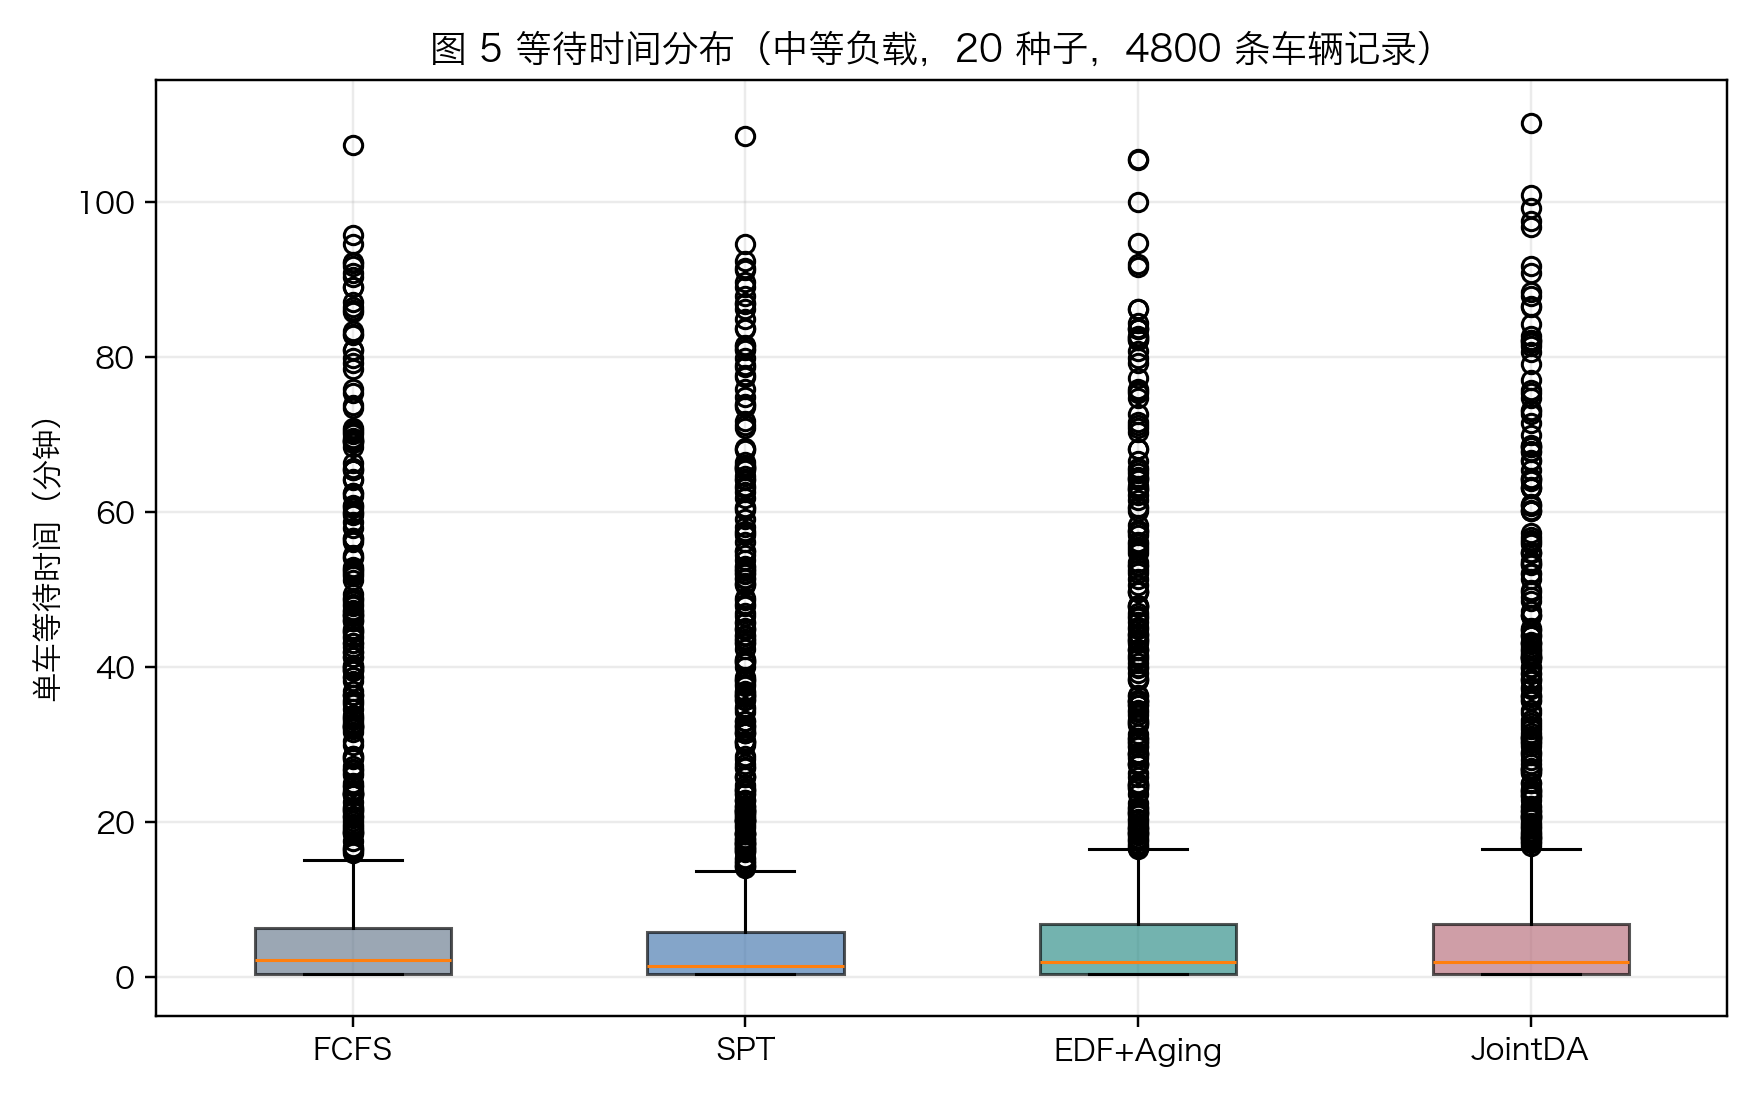
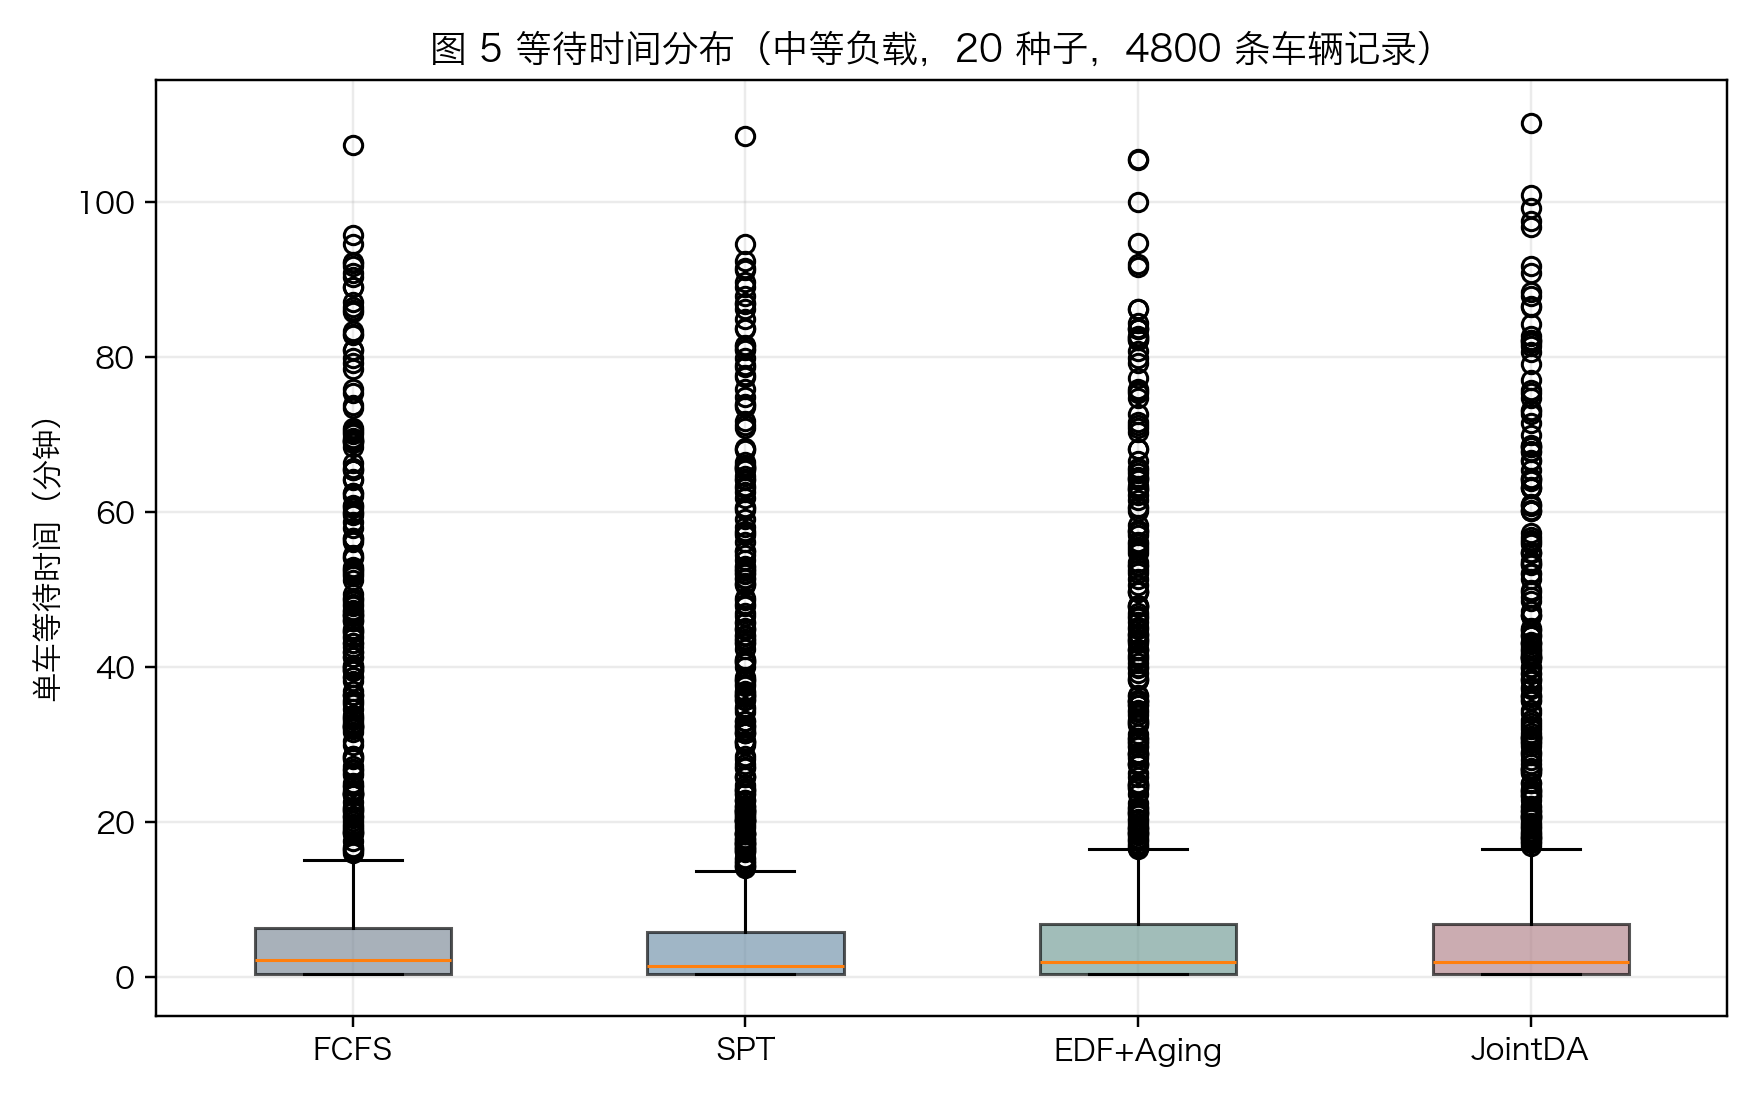
style(repro): soften figure palette and align UML diagrams

Changed region(s): [[0.3438, 0.8345, 0.5, 0.8964], [0.5938, 0.8345, 0.7188, 0.8964]]

diff --git a/make_figures.py b/make_figures.py
@@ -14,8 +14,7 @@ import numpy as np
 import pandas as pd
 from scipy import stats
 
-REPO_ROOT = Path(__file__).resolve().parent
-sys.path.insert(0, str(REPO_ROOT / "vendor" / "dockflow"))
+REPO_ROOT = Path(__file__).resolve().parents[2]
 sys.path.insert(0, str(REPO_ROOT))
 
 HERE = Path(__file__).resolve().parent
@@ -40,9 +39,9 @@ LABELS = {
     "aqedf": "AQEDF",
 }
 COLORS = {
-    "fcfs": "#65788d", "spt": "#4275ad", "edf": "#8769ad", "edf_aging": "#288b85",
-    "dependency_aware": "#be8254", "joint_da": "#b66b79", "rh_da": "#5b8b69",
-    "aqedf": "#c0392b",
+    "fcfs": "#7A8796", "spt": "#6E8FA8", "edf": "#8E82A6", "edf_aging": "#6F9A94",
+    "dependency_aware": "#B49A80", "joint_da": "#B08088", "rh_da": "#7E9A85",
+    "aqedf": "#B06A60",
 }
 LEVELS = ["low", "medium", "high"]
 LEVEL_LABELS = {
@@ -184,7 +183,7 @@ def fig08_ablation() -> Path:
             means.append(mean)
             errs.append(half)
         bars = ax.bar(range(len(variants)), means, yerr=errs, capsize=3,
-                      color=["#4b5b6b"] + ["#be8254"] * (len(variants) - 1),
+                      color=["#6F7C89"] + ["#B49A80"] * (len(variants) - 1),
                       edgecolor="white")
         ax.set_xticks(range(len(variants)))
         ax.set_xticklabels(variants, rotation=30, fontsize=8)
@@ -294,7 +293,7 @@ def fig12_gantt() -> Path:
             if start is None:
                 continue
             y = y_base[event["dock_id"]]
-            color = "#288b85" if direction[truck_id] == "IN" else "#be8254"
+            color = "#6F9A94" if direction[truck_id] == "IN" else "#B49A80"
             service_start = started.get(truck_id, start)
             service_end = finished.get(truck_id, event["time"])
             ax.barh(y, service_start - start, left=start, height=0.55, color=color, alpha=0.35)
@@ -308,7 +307,7 @@ def fig12_gantt() -> Path:
     ax.set_yticklabels(docks)
     ax.set_xlabel("仿真时间（分钟）")
     ax.set_ylabel("月台")
-    ax.set_title("图 12 真实调度甘特图（JointDA，小规模实例）：浅色为驶入/驶出，深色为装卸")
+    ax.set_title("示例调度甘特图（JointDA，小规模合成实例）：浅色为驶入/驶出，深色为装卸")
     return save(fig, "fig12_gantt.png")
 
 
@@ -320,35 +319,44 @@ def figA1_sequence() -> Path:
     actors = ["仿真引擎", "调度算法", "事件日志", "存储"]
     xs = [1.3, 4.3, 7.0, 9.0]
     for x, name in zip(xs, actors):
-        ax.add_patch(plt.Rectangle((x - 0.85, 9.0), 1.7, 0.6, facecolor="#eef2f7",
-                                   edgecolor="#5b6b7b"))
-        ax.text(x, 9.3, name, ha="center", va="center", fontsize=9)
-        ax.plot([x, x], [0.4, 9.0], linestyle="--", color="#9aa7b4", linewidth=0.9)
+        ax.add_patch(plt.Rectangle((x - 0.85, 9.0), 1.7, 0.6, facecolor="#EEF1F4",
+                                   edgecolor="#6F7C89"))
+        ax.text(x, 9.3, name, ha="center", va="center", fontsize=9, color="#5F6B78")
+        ax.plot([x, x], [0.4, 9.0], linestyle="--", color="#A5AFB9", linewidth=0.9)
+    activation = {0: (4.0, 8.7), 1: (6.8, 8.5), 2: (3.3, 4.2), 3: (2.6, 3.5)}
+    for idx, (bottom, top) in activation.items():
+        x = xs[idx]
+        ax.add_patch(plt.Rectangle((x - 0.07, bottom), 0.14, top - bottom,
+                                   facecolor="#DDE3E9", edgecolor="#A5AFB9",
+                                   linewidth=0.5, zorder=1))
     messages = [
-        (0, 1, "select_next(就绪快照, 月台, 当前时刻, 配置)", 8.4),
-        (1, 1, "评分 / 联合匹配 / 前瞻推演（只读）", 7.6),
-        (1, 0, "返回 truck_id 或 None", 6.9),
-        (0, 0, "DOCK_ASSIGNED; READY → APPROACHING", 6.2),
-        (0, 0, "SERVICE_FINISHED：入站卸完解锁出站", 5.5),
-        (0, 0, "DOCK_RELEASED：月台释放", 4.8),
-        (0, 2, "追加事件（seq, time, type, data）", 4.1),
-        (2, 3, "持久化运行与事件", 3.4),
-        (3, 0, "分页读取并回放", 2.7),
+        (0, 1, "select_next(就绪快照, 月台, 当前时刻, 配置)", 8.4, "sync"),
+        (1, 1, "评分 / 联合匹配 / 前瞻推演（只读）", 7.6, "self"),
+        (1, 0, "返回 truck_id 或 None", 6.9, "return"),
+        (0, 0, "DOCK_ASSIGNED; READY → APPROACHING", 6.2, "self"),
+        (0, 0, "SERVICE_FINISHED：入站卸完解锁出站", 5.5, "self"),
+        (0, 0, "DOCK_RELEASED：月台释放", 4.8, "self"),
+        (0, 2, "追加事件（seq, time, type, data）", 4.1, "sync"),
+        (2, 3, "持久化运行与事件", 3.4, "sync"),
+        (3, 0, "分页读取并回放", 2.7, "return"),
     ]
-    for src, dst, label, y in messages:
+    for src, dst, label, y, kind in messages:
         if src == dst:
             x = xs[src]
             ax.add_patch(plt.Rectangle((x - 0.09, y - 0.2), 0.18, 0.4,
-                                       facecolor="white", edgecolor="#3c5a78"))
-            ax.text(x + 0.2, y, label, ha="left", va="center", fontsize=8)
+                                       facecolor="#F4F6F8", edgecolor="#6F7C89", zorder=2))
+            ax.text(x + 0.2, y, label, ha="left", va="center", fontsize=8, color="#5F6B78")
         else:
             direction = 1 if dst > src else -1
+            dashed = kind == "return"
             ax.annotate("", xy=(xs[dst] - 0.05 * direction, y),
                         xytext=(xs[src] + 0.05 * direction, y),
-                        arrowprops=dict(arrowstyle="-|>", color="#3c5a78", lw=1.3))
+                        arrowprops=dict(arrowstyle=("->" if dashed else "-|>"),
+                                        color=("#7A8794" if dashed else "#5E6F80"),
+                                        lw=1.2, linestyle=("--" if dashed else "-")))
             ax.text((xs[src] + xs[dst]) / 2, y + 0.12, label, ha="center",
-                    va="bottom", fontsize=8)
-    ax.set_title("图 A1 调度调用时序（非抢占、只读快照）")
+                    va="bottom", fontsize=8, color="#5F6B78")
+    ax.set_title("调度调用时序（非抢占、只读快照）")
     return save(fig, "figA1_sequence.png")
 
 

diff --git a/make_research_figures.py b/make_research_figures.py
@@ -28,9 +28,9 @@ plt.rcParams.update({
 ORDER = ["edf", "qedf", "spt", "dependency_aware", "joint_da", "rh_da"]
 LABELS = {"edf": "EDF", "qedf": "QEDF（无门控）", "aqedf": "AQEDF（本文）", "spt": "SPT",
           "dependency_aware": "DA", "joint_da": "JointDA", "rh_da": "RH-DA"}
-COLORS = {"edf": "#8769ad", "qedf": "#c97c5a", "aqedf": "#c0392b",
-          "spt": "#4275ad", "dependency_aware": "#be8254", "joint_da": "#b66b79",
-          "rh_da": "#5b8b69"}
+COLORS = {"edf": "#8E82A6", "qedf": "#B49A80", "aqedf": "#B06A60",
+          "spt": "#6E8FA8", "dependency_aware": "#B49A80", "joint_da": "#B08088",
+          "rh_da": "#7E9A85"}
 
 
 def load(name: str) -> list[dict]:
@@ -67,7 +67,7 @@ def fig13() -> Path:
             errs.append(half)
         bars = ax.bar(range(len(ORDER)), means, yerr=errs, capsize=3,
                       color=[COLORS[a] for a in ORDER], edgecolor="white", linewidth=0.6)
-        bars[ORDER.index("qedf")].set_edgecolor("#c0392b")
+        bars[ORDER.index("qedf")].set_edgecolor("#B06A60")
         bars[ORDER.index("qedf")].set_linewidth(2.0)
         ax.set_xticks(range(len(ORDER)))
         ax.set_xticklabels([LABELS[a] for a in ORDER], rotation=20, fontsize=8.5)
@@ -76,7 +76,7 @@ def fig13() -> Path:
         for bar, value in zip(bars, means):
             ax.text(bar.get_x() + bar.get_width() / 2, bar.get_height(),
                     f"{value:.3f}", ha="center", va="bottom", fontsize=7)
-    fig.suptitle("图 13 队列感知 EDF（QEDF）的适用区间：中负载无差异，高排队压力下逾期率最低",
+    fig.suptitle("无门控 QEDF：中等负载过度修正，高排队压力下有效",
                  fontsize=12)
     fig.tight_layout()
     path = FIG / "fig13_qedf.png"
@@ -104,7 +104,7 @@ def fig14() -> Path:
         ax.fill_between(xs, lows, highs, color=COLORS[algorithm], alpha=0.12)
     ax.set_xlabel("依赖比例")
     ax.set_ylabel("出站逾期率")
-    ax.set_title("图 16 固定规模（30/30，5 月台）下 QEDF 并无收益：\n"
+    ax.set_title("固定规模（30/30，5 月台）下 QEDF 并无收益：\n"
                  "修正需要足够的排队压力，而非单纯依赖比例")
     ax.legend(fontsize=9)
     fig.tight_layout()

diff --git a/make_validation_figure.py b/make_validation_figure.py
@@ -14,7 +14,7 @@ rows=list(csv.DictReader(open(DATA/"validation_selection.csv",encoding="utf-8"))
 S=json.load(open(DATA/"validation_summary.json",encoding="utf-8"))
 fig,axes=plt.subplots(1,2,figsize=(13,4.8))
 ax=axes[0]
-for metric,color,label in (("select_medium_miss","#8769ad","中负载"),("select_high_miss","#c0392b","高负载")):
+for metric,color,label in (("select_medium_miss","#8E82A6","中负载"),("select_high_miss","#B06A60","高负载")):
     xs=[];ys=[]
     for r in rows:
         if float(r["lambda"])==1.0:
@@ -26,10 +26,10 @@ ax=axes[1]
 labels={"medium":"中负载","high":"高负载","n120":"120 辆","n160":"160 辆"}
 names=[labels[k] for k in ("medium","high","n120","n160")]
 vals=[S["by_scenario"][k]["ratio"]*100 for k in ("medium","high","n120","n160")]
-bars=ax.bar(names,vals,color="#5b8b69")
+bars=ax.bar(names,vals,color="#7E9A85")
 ax.set_ylim(0,110); ax.set_ylabel("不劣实例比例 (%)")
 ax.set_title("(b) 独立确认集：逐实例不劣比例",fontsize=10)
 for b,v in zip(bars,vals): ax.text(b.get_x()+b.get_width()/2,v+2,f"{v:.0f}%",ha="center",fontsize=9)
-fig.suptitle("图 15 独立验证：参数在选择集上确定，效果在独立种子集上报告",fontsize=12)
+fig.suptitle("独立验证：参数在选择集上确定，效果在独立种子集上报告",fontsize=12)
 fig.tight_layout(); fig.savefig(HERE/"figures"/"fig15_validation.png"); plt.close(fig)
 print("生成 figures/fig15_validation.png")

diff --git a/make_adaptive_figures.py b/make_adaptive_figures.py
@@ -28,7 +28,7 @@ S = json.loads((DATA / "stats_adaptive.json").read_text(encoding="utf-8"))
 SCENARIOS = ["low", "medium", "high", "n120", "n160"]
 LABELS = {"low": "低负载\n15/15·8台", "medium": "中负载\n30/30·5台",
           "high": "高负载\n50/50·3台", "n120": "120 辆", "n160": "160 辆"}
-COLORS = {"edf": "#8769ad", "qedf": "#c97c5a", "aqedf": "#c0392b"}
+COLORS = {"edf": "#8E82A6", "qedf": "#B49A80", "aqedf": "#B06A60"}
 NAMES = {"edf": "EDF", "qedf": "QEDF（无门控）", "aqedf": "AQEDF（自适应）"}
 
 
@@ -66,7 +66,7 @@ def main() -> None:
     ax.set_title("(b) 固定小规模：门控正确退化，AQEDF 贴近 EDF", fontsize=10)
     ax.legend(fontsize=8)
 
-    fig.suptitle("图 14 自适应队列感知 EDF（AQEDF）：按排队压力启用修正，实现高压力下稳定改善",
+    fig.suptitle("自适应队列感知 EDF（AQEDF）：按排队压力启用修正，实现高压力下稳定改善",
                  fontsize=12)
     fig.tight_layout()
     path = FIG / "fig14_aqedf.png"
